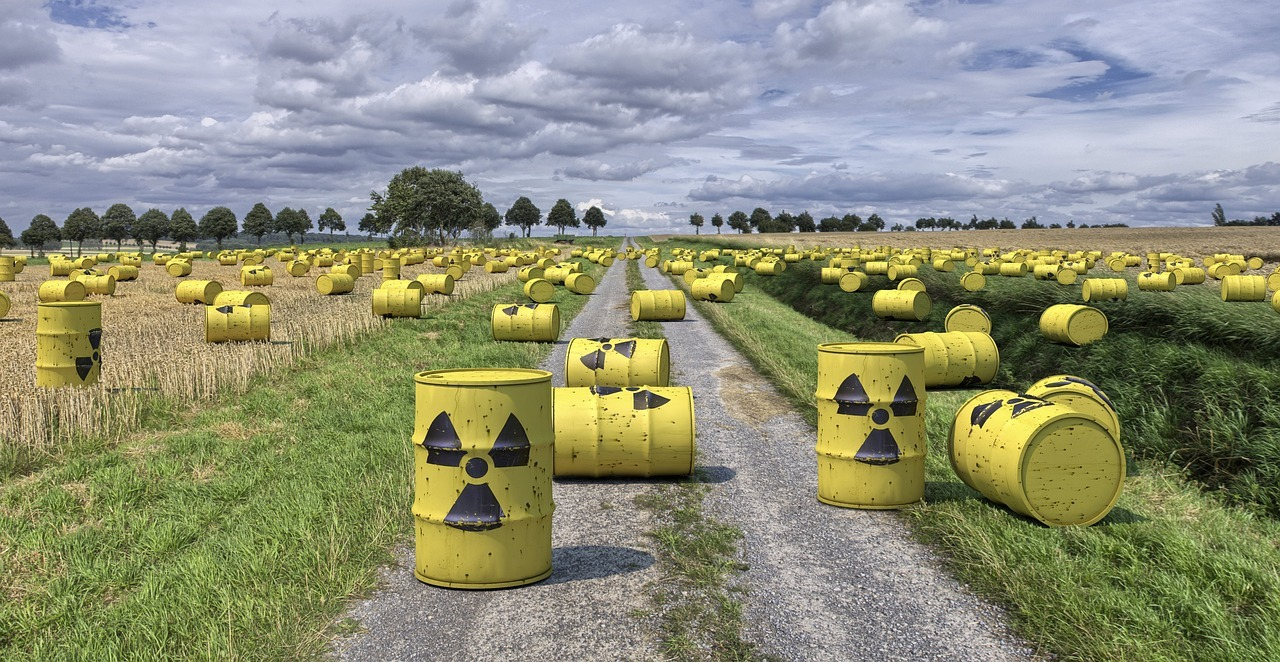
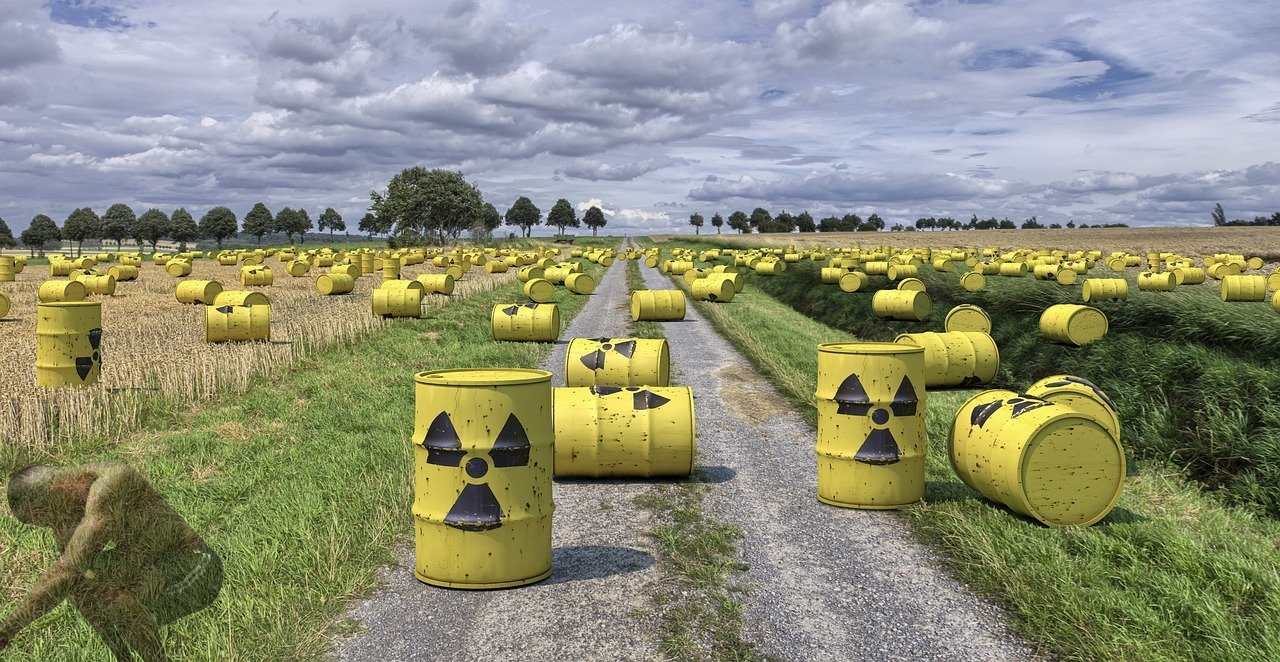
mudando background  hall do lixo

Changed region(s): [[0.0, 0.6949, 0.1875, 1.0]]

diff --git a/frontend/src/components/HallOfTrash.tsx b/frontend/src/components/HallOfTrash.tsx
@@ -37,6 +37,12 @@ export default function HallOfTrash({ isOpen, onClose, movies, token, onUpdate }
     return Array.from(months).sort((a, b) => b.localeCompare(a));
   }, [allTrash]);
 
+  const isAbsoluteWorst = (movie: any, group: any) => {
+    if (movie.isTrash) return true; // Se já estiver salvo no banco
+    if (group.tiedForLowest.length === 1 && movie.streamerRating === group.minRating) return true; // É o único com a pior nota
+    return false;
+  };
+
   const { groupedTrash, overallTopCulprit } = useMemo(() => {
     const groups: Record<string, any> = {};
     const culprits: Record<string, number> = {};
@@ -73,6 +79,15 @@ export default function HallOfTrash({ isOpen, onClose, movies, token, onUpdate }
       });
       group.tiedForLowest = group.movies.filter((m: any) => m.streamerRating === group.minRating);
       group.hasChosenTrashInTies = group.tiedForLowest.some((m: any) => m.isTrash);
+
+      // Ordena para que o pior filme (eleito ou único) fique em primeiro
+      group.movies.sort((a: any, b: any) => {
+        const aIsWorst = isAbsoluteWorst(a, group);
+        const bIsWorst = isAbsoluteWorst(b, group);
+        if (aIsWorst && !bIsWorst) return -1;
+        if (bIsWorst && !aIsWorst) return 1;
+        return (a.streamerRating || 0) - (b.streamerRating || 0);
+      });
     });
 
     let tops: string[] = [];
@@ -89,12 +104,6 @@ export default function HallOfTrash({ isOpen, onClose, movies, token, onUpdate }
 
     return { groupedTrash: groups, overallTopCulprit: top };
   }, [allTrash, selectedMonthFilter]);
-
-  const isAbsoluteWorst = (movie: any, group: any) => {
-    if (movie.isTrash) return true; // Se já estiver salvo no banco
-    if (group.tiedForLowest.length === 1 && movie.streamerRating === group.minRating) return true; // É o único com a pior nota
-    return false;
-  };
 
   if (!isOpen) return null;
 